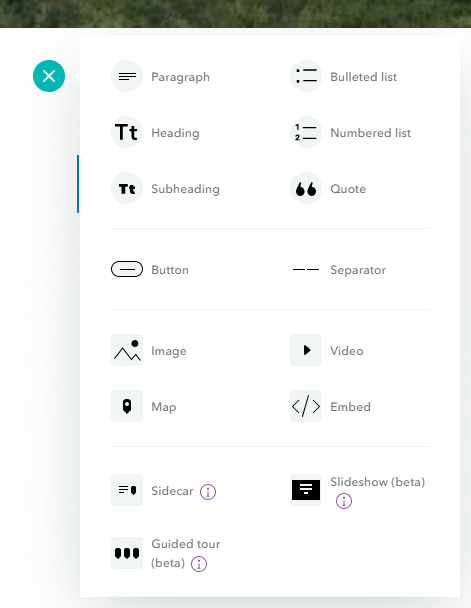
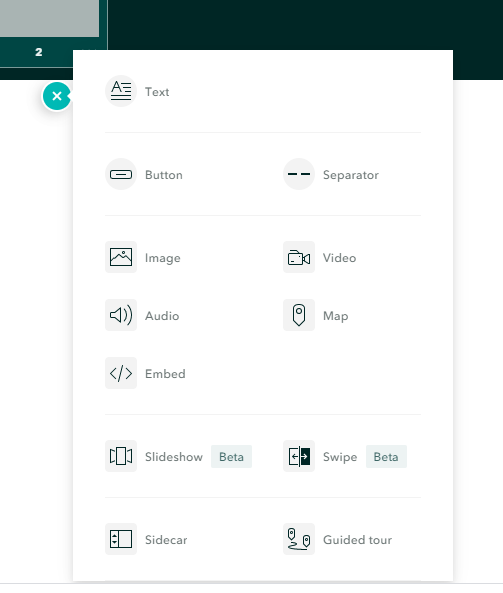
second part of tutorial
add additional instructions for second part of tutorial and update some images

diff --git a/StorymapKENYA.md b/StorymapKENYA.md
@@ -50,6 +50,10 @@ note: open the [text file](https://github.com/zarazaga/StoryMaps/TTU_data/inform
 
 ![addBanner.png](./media/addBanner.png)
 
+and under the 'text' button add text . .
+
+![addBanner.png](./media/addBanner2.png)
+
 then add a quote:
 
 Add a heading:  'Vision'
@@ -93,7 +97,48 @@ Pillar 1: research, you can add a web-link and another link in Pillar 2.
 There is a video to add to Pillar 3: 
 https://arcg.is/0SWnrT
 
+Carry on and add pages for Pilars 4 and 5. 
+
+Now return- below the black line= to the small blue '+' select "text" again, and add a heading (Tt bold and large) some text, and the quote ("). 
+
+![](./media/addBanner2.png)
+
+We are going to add another side car- onl this time, the text will be on the left, and the a map with local data will be on the right. 
+
+Instead of adding an express map, lets make use of ARcGIS online to gather data layers about the regions of Taita Taveta, and show them on a map. 
+
+In a new browser window open ArcGIS online, and make a new map.
+
+![](./media/AGOLnewMap.png)
+
+Zoom to KENYA, and add the following data sets to your map
+
+![](./media/AGOLdata.png)
+
+(or add any other data you find more interesting)
+
+Save this map with a NAME you can remember . .
+LEAVE ArcGIS Online.
+
+Now return to your StoryMap and use the banner to Add a sidecar. Selecting a 'docked panel' you can add the text on the left - describing vegettion, and add a map on the right to illustrate that. 
+
+You should find your own ArcGIS map  . .and can add it.
+![](./media/MediaMap.png)
 
 
+Make sure only one of the Map layers is visible, and zoom to the scale at which you want this map-data to show. Then click 'place map'.
 
+![](./media/PlaceMap.png)
+
+Staying in the same sidecar, add another map.(Add Media/ Add Map).  This time you select the same map, but choose different layers to add. Zoom in slightly to show the Kenya Wetlands around Taita Tavet and Voi.
+
+Finally add the same map a third time but this time zoom in further, and show the detailed information around the Taita Hills, collectd by research teams working with the University. 
+
+![](./media/ZoominMap.png)
+
+You should now be able to figure out how to add some additional images into your running text box, and, eventually, how to add a 'button' with a link to the University Website. 
+
+Finally finish with your ending text and a photo of the gateway.
+
+ESRI updates STORYMAP buttons and options with great frequency.  The specific instructions in this tutorial are probably already out of date- but the general idea should still work. As with all GIS - part of the skill is learning to know what you want, and to figure out the paths to get there.
 
